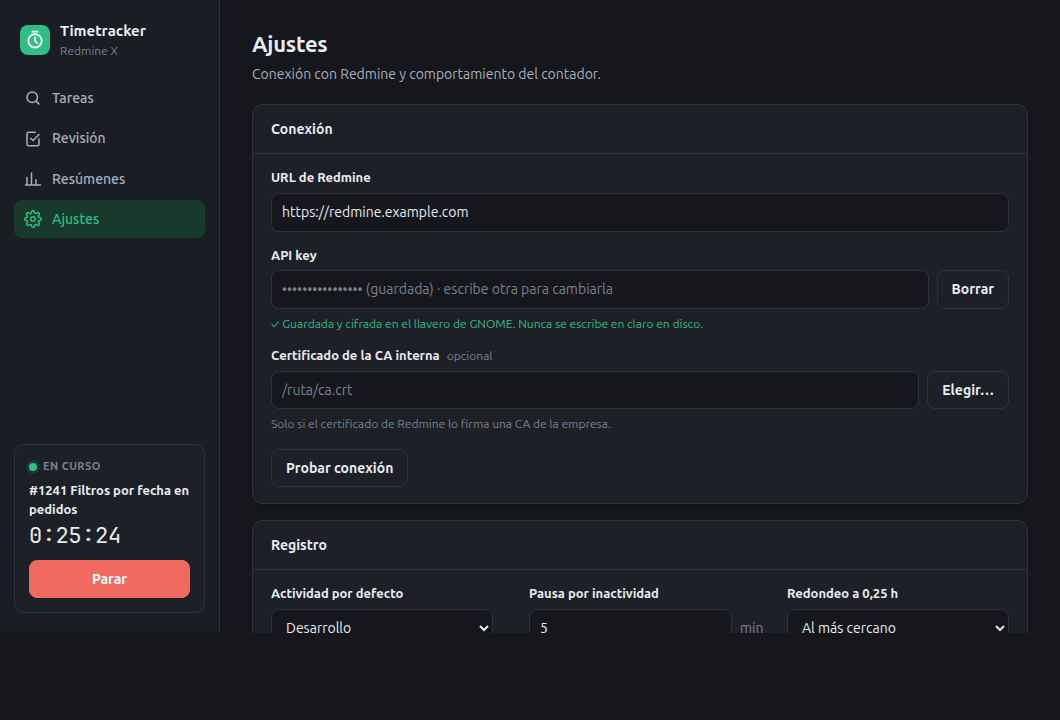
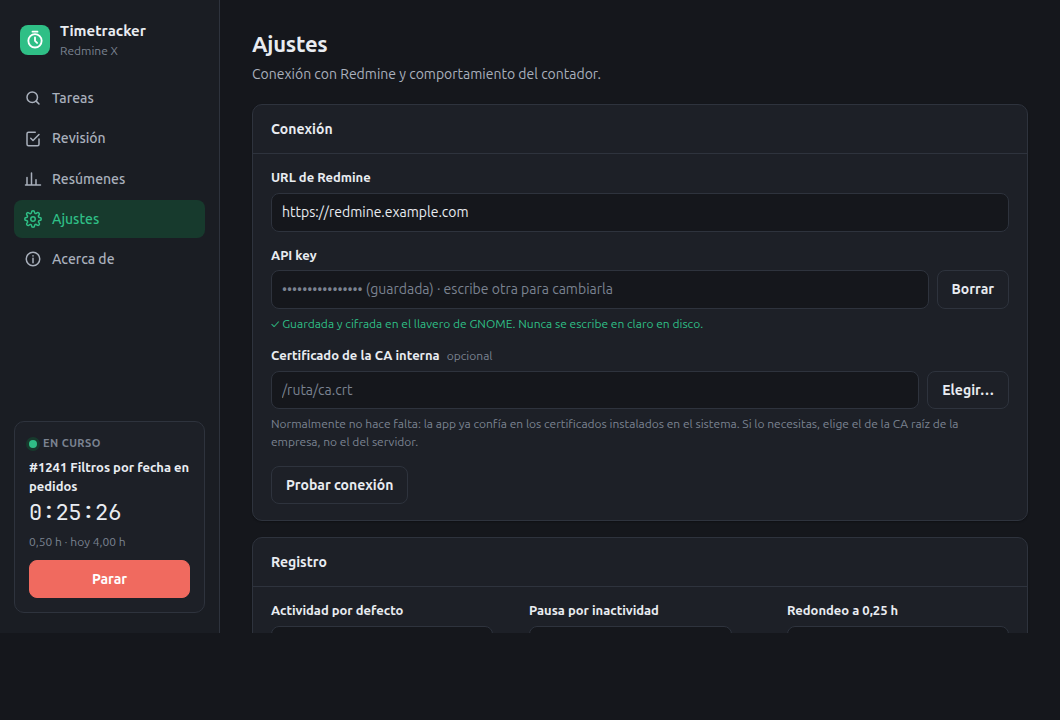
docs: :memo: README al día con el comentario al parar, el redondeo y los resúmenes
Nuevo lema, características y flujo actualizados, apartados sobre el
comentario al parar (Guardar, Luego, Cancelar) y el redondeo a 0,25 h, tabla
de problemas frecuentes y capturas regeneradas con la interfaz actual (widget
con horas redondeadas, aviso de comentario, tiempo manual y Acerca de).

diff --git a/README.md b/README.md
@@ -4,7 +4,7 @@
 
 # Timetracker Redmine
 
-**Cronometra tu trabajo con un clic. Revísalo al final del día. Imputa en Redmine sin rellenar ni una sola hora a mano.**
+**Cronometra tu trabajo con un clic. Comenta lo que has hecho al parar. Imputa en Redmine sin rellenar ni una sola hora a mano.**
 
 [![Electron](https://img.shields.io/badge/Electron-44-47848F?logo=electron&logoColor=white)](https://www.electronjs.org/)
 [![Plataformas](https://img.shields.io/badge/Linux%20%7C%20Windows%20%7C%20macOS-escritorio-2fbf86)](#-instalación)
@@ -20,7 +20,7 @@
 
 ## ¿Por qué?
 
-Imputar horas en Redmine al final de la semana es una tarea de arqueología: ¿qué hice el martes a las once? **Timetracker Redmine** te quita ese problema. Un widget flotante siempre a la vista cuenta el tiempo de la tarea en la que estás, detecta cuándo te levantas de la silla y, al final del día, te presenta todo agrupado y redondeado para que lo revises y lo envíes a Redmine con un solo botón.
+Imputar horas en Redmine al final de la semana es una tarea de arqueología: ¿qué hice el martes a las once? **Timetracker Redmine** te quita ese problema. Un widget flotante siempre a la vista cuenta el tiempo de la tarea en la que estás, te pide un comentario cuando paras, detecta cuándo te levantas de la silla y, al final del día, te presenta todo agrupado y redondeado a 0,25 h para que lo revises y lo envíes a Redmine con un solo botón.
 
 Y lo hace sin riesgos: **la app no escribe nada en Redmine hasta que tú lo permites expresamente**.
 
@@ -28,7 +28,8 @@ Y lo hace sin riesgos: **la app no escribe nada en Redmine hasta que tú lo perm
 
 | | |
 |---|---|
-| ⏱ **Widget flotante** | Pequeño, siempre encima, arrastrable y recuerda su posición. Muestra la tarea, el contador y el total del día. |
+| ⏱ **Widget flotante** | Pequeño, siempre encima, arrastrable y recuerda su posición. Muestra la tarea, el cronómetro y las **horas redondeadas a 0,25 h** de la tarea en curso y del día: lo que ves es lo que se imputará. |
+| 💬 **Comentario al parar** | Al parar o cambiar de tarea, el widget te pregunta qué has hecho. *Guardar*, *Luego*… o *Cancelar*, y el contador sigue corriendo como si nada. |
 | 🔎 **Buscador inteligente** | Por número (`1234` o `#1234`) o por título. Con la caja vacía, tus tareas abiertas. |
 | ⭐ **Tus proyectos primero** | Por defecto busca en tus **proyectos favoritos** de Redmine. Un filtro te deja elegir cualquier proyecto activo en el que participes. |
 | 🌳 **Árbol de tareas** | Resultados agrupados por proyecto y con la jerarquía padre → subtareas, como en Redmine. |
@@ -36,34 +37,62 @@ Y lo hace sin riesgos: **la app no escribe nada en Redmine hasta que tú lo perm
 | 💤 **Detección de inactividad** | Si te ausentas o suspendes el equipo, para el reloj donde empezó la inactividad y te pregunta: *Sumar*, *Descartar* o *Parar*. |
 | ✍ **Tiempo manual** | ¿Se te olvidó encender el contador? Elige la tarea, la fecha, la hora de inicio y las horas, y añádelo a mano. |
 | 📝 **Revisión del día** | Agrupada por tarea y actividad, con redondeo a 0,25 h. Cada tramo lleva **su comentario obligatorio**, y con ellos se forma el comentario de la entrada de tiempo. |
-| 📊 **Resúmenes** | Diario y semanal (de lunes a domingo), con barras y mapa de calor. |
+| 📊 **Resúmenes** | Diario y semanal (de lunes a domingo), en horas redondeadas tal y como se imputan, con el proyecto de cada tarea y los comentarios del día. |
 | 🔐 **API key como una contraseña** | Cifrada con el almacén seguro del sistema y nunca en claro en disco. |
-| 🏢 **Redmine corporativo** | Admite la CA interna de tu empresa (PEM o DER) sin desactivar jamás la verificación TLS. |
+| 🏢 **Redmine corporativo** | Confía en los certificados instalados en el sistema y admite la CA interna de tu empresa (PEM o DER), sin desactivar jamás la verificación TLS. |
 | 🔔 **Aviso de versión nueva** | Te avisa cuando hay una versión más reciente en GitHub, con un botón para descargarla. Se puede desactivar. |
 | 🌗 **Tema claro y oscuro** | Sigue automáticamente el tema del sistema. |
 
 <div align="center">
+<img src="capturas/widget.png" alt="Widget flotante contando tiempo, con las horas redondeadas" width="380">
+<img src="capturas/widget-comment.png" alt="El widget pide el comentario al parar" width="380">
+<br><br>
 <img src="capturas/dark-review.png" alt="Revisión del día con comentario obligatorio por tramo" width="49%">
-<img src="capturas/dark-summary.png" alt="Resúmenes diario y semanal" width="49%">
-<br>
-<img src="capturas/widget.png" alt="Widget flotante contando tiempo" width="380">
-<img src="capturas/widget-idle.png" alt="Aviso de inactividad del widget" width="380">
+<img src="capturas/dark-summary.png" alt="Resúmenes con horas redondeadas, proyecto y comentarios" width="49%">
 </div>
+
+<details>
+<summary>Más capturas: aviso de inactividad y tema claro</summary>
+<br>
+<div align="center">
+<img src="capturas/widget-idle.png" alt="Aviso de inactividad del widget" width="380">
+<br><br>
+<img src="capturas/light-tasks.png" alt="Buscador de tareas con el tema claro" width="820">
+</div>
+</details>
 
 ## ⚙ Cómo funciona
 
 ```
- Buscar tarea ──▶ ▶ Empezar ──▶ Tramos de tiempo ──▶ Revisión del día ──▶ Imputar en Redmine
-                                  (en tu equipo)      (agrupa, redondea,    (solo si lo permites
-                                                       comentario por        y confirmas)
-                                                       tramo)
+ Buscar tarea ─▶ ▶ Empezar ─▶ ■ Parar + comentario ─▶ Revisión del día ─▶ Imputar en Redmine
+                               (tramos de tiempo,      (agrupa, redondea     (solo si lo permites
+                                en tu equipo)           a 0,25 h)             y confirmas)
 ```
 
-1. **Cuentas**: eliges una tarea y pulsas *▶ Empezar*. Cada vez que paras, cambias de tarea o te ausentas, se guarda un **tramo** de tiempo en tu equipo.
-2. **Revisas**: en *Revisión del día* los tramos se agrupan por tarea y actividad, con las horas redondeadas a 0,25 h (al más cercano o siempre hacia arriba). Puedes ajustar horas y actividad, desmarcar lo que no quieras enviar y escribir qué hiciste en cada tramo.
-3. **Imputas**: *Imputar en Redmine* crea una entrada de tiempo por tarea y actividad, con los comentarios de sus tramos. Las filas enviadas quedan marcadas con el número de la entrada y no se pueden reenviar por error.
+1. **Cuentas**: eliges una tarea y pulsas *▶ Empezar*. El widget muestra el cronómetro y, debajo, las horas redondeadas de esa tarea y del día.
+2. **Paras y comentas**: al parar o cambiar de tarea, el widget te pide el comentario de ese trabajo. Cada parada, cambio de tarea o ausencia guarda un **tramo** de tiempo en tu equipo.
+3. **Revisas**: en *Revisión del día* los tramos se agrupan por tarea y actividad, con las horas redondeadas a 0,25 h (al más cercano o siempre hacia arriba). Puedes ajustar horas y actividad, desmarcar lo que no quieras enviar y completar los comentarios que falten.
+4. **Imputas**: *Imputar en Redmine* crea una entrada de tiempo por tarea y actividad, con los comentarios de sus tramos. Las filas enviadas quedan marcadas con el número de la entrada y no se pueden reenviar por error.
 
 Todo el registro de tiempo vive en tu equipo. Redmine solo se consulta para buscar tareas y proyectos, y solo se escribe en él cuando tú lo decides.
+
+### El comentario al parar
+
+<div align="center">
+<img src="capturas/widget-comment.png" alt="Aviso de comentario del widget con Guardar, Luego y Cancelar" width="380">
+</div>
+
+| Opción | Qué hace |
+|---|---|
+| **Guardar** (o Enter) | Para el contador y guarda el comentario en los tramos de hoy de esa tarea que aún no lo tienen. |
+| **Luego** | Para el contador y deja el comentario para la *Revisión del día*, donde es obligatorio antes de imputar. |
+| **Cancelar** (o Esc) | No para: el contador sigue desde el instante en que pulsaste parar, sin perder tiempo. |
+
+El aviso también aparece al cambiar de tarea y al elegir *Parar* tras una inactividad (en esos casos sin *Cancelar*). No aparece en las pausas automáticas por inactividad ni al salir de la app.
+
+### Redondeo a 0,25 h
+
+La app cuenta el tiempo real, pero todo lo que se imputa va en fracciones de 0,25 h. El redondeo se hace **por tarea y actividad en cada día**, y es el mismo en el widget, en los resúmenes, en la revisión y en lo que llega a Redmine. En *Ajustes* eliges entre redondear al cuarto de hora más cercano o siempre hacia arriba. El tiempo real sigue visible en pequeño.
 
 ## 📦 Instalación
 
@@ -81,10 +110,10 @@ Todo el registro de tiempo vive en tu equipo. Redmine solo se consulta para busc
 ### 🐧 Linux
 
 ```bash
-sudo apt install ./redmine-timetracker_0.1.0_amd64.deb
+sudo apt install ./redmine-timetracker_<versión>_amd64.deb
 ```
 
-Después búscala en el menú de aplicaciones como **Timetracker Redmine**. Para actualizar, instala el `.deb` nuevo encima: tus datos se conservan.
+Después búscala en el menú de aplicaciones como **Timetracker Redmine**. Para actualizar, sal de la app (icono de la bandeja → *Salir*), instala el `.deb` nuevo encima y vuelve a abrirla: tus datos se conservan.
 
 > **Actualizaciones:** la app consulta GitHub al arrancar y cada 6 horas y, si hay una versión nueva, te avisa con un botón para descargarla (en el panel y en el menú de la bandeja). Solo lee el número de la última versión publicada; no envía ningún dato tuyo. Se desactiva en *Ajustes → Avisar de versiones nuevas*.
 
@@ -158,6 +187,7 @@ gh attestation verify redmine-timetracker_<versión>_amd64.deb -R mgomezbuceta/r
 |---|---|
 | Empezar a contar | Clic en el texto del widget → busca la tarea → **▶ Empezar**. |
 | Parar o reanudar | Botón ■ / ▶ del widget, el panel o el menú del icono de la bandeja. |
+| Saber cuánto llevo | Bajo el cronómetro del widget: horas redondeadas de la tarea en curso y total de hoy (pasa el ratón para ver el tiempo real). |
 | Comentar lo que has hecho | Al parar o cambiar de tarea, el widget te pide el comentario de ese trabajo (Enter para guardar, «Luego» para dejarlo para la revisión, «Cancelar» o Esc para no parar y seguir contando). |
 | Buscar en un proyecto concreto | Desplegable de proyecto bajo el buscador (favoritos primero, luego los proyectos en los que participas). |
 | Volver a una tarea reciente | Chip **Recientes** en el buscador. |
@@ -165,7 +195,8 @@ gh attestation verify redmine-timetracker_<versión>_amd64.deb -R mgomezbuceta/r
 | Ausentarme | No hagas nada: al volver, la app te pregunta qué hacer con ese tiempo. |
 | Cerrar el día | Menú → **Revisión del día**: comenta cada tramo, ajusta y pulsa **Imputar en Redmine**. |
 | Corregir un error | En *Tramos registrados* puedes borrar un tramo equivocado antes de imputar. |
-| Ver cómo va la semana | Pestaña **Resúmenes**. |
+| Ver cómo va el día o la semana | Pestaña **Resúmenes**: horas redondeadas por tarea, con su proyecto y los comentarios del día. |
+| Salir del todo | Icono de la bandeja (o ⋮ del widget) → **Salir**. Cerrar la ventana solo la oculta: la app sigue en la bandeja. |
 | Ver la versión o informar de un problema | Pestaña **Acerca de** (o menú del icono de la bandeja → *Acerca de*). |
 
 ### Dónde se guardan tus datos
@@ -180,6 +211,22 @@ gh attestation verify redmine-timetracker_<versión>_amd64.deb -R mgomezbuceta/r
 - `data.json`: tramos de tiempo, recientes y envíos realizados.
 
 Si la app se cierra de golpe con el reloj en marcha, al volver corta en el último latido (cada 30 s) y te pregunta qué hacer con el hueco.
+
+<div align="center">
+<img src="capturas/dark-manual.png" alt="Diálogo para imputar horas sin contador" width="49%">
+<img src="capturas/dark-about.png" alt="Pantalla Acerca de con el aviso de versión nueva" width="49%">
+</div>
+
+## 🩺 Problemas frecuentes
+
+| Síntoma | Causa y solución |
+|---|---|
+| *Tiempo de espera agotado… [ETIMEDOUT]* con la VPN conectada | Un cortafuegos por aplicación (OpenSnitch, Little Snitch, el del antivirus…) está bloqueando la app. Permítele conectar con tu Redmine y con `api.github.com` (aviso de versiones). |
+| *SELF_SIGNED_CERT_IN_CHAIN* o «CA que no es de confianza» | Tu Redmine usa una CA interna que el sistema no tiene instalada. Elige en *Ajustes* el certificado de la **CA raíz** (no el del servidor). |
+| He instalado una versión nueva y sigo viendo la anterior | La app seguía abierta en la bandeja. Sal con *Salir* y ábrela de nuevo. |
+| El botón *Imputar en Redmine* está desactivado | Falta activar *Permitir imputar horas* en *Ajustes*, o falta el comentario de algún tramo (se marca en rojo). |
+| No encuentro una tarea | Su proyecto está cerrado o no está entre tus favoritos: elige el proyecto en el desplegable del buscador o búscala por número. |
+| En Ubuntu no arranca desde el código fuente (`chrome-sandbox`) | Es la restricción de AppArmor: usa el `.deb` o aplica los dos comandos del apartado *Desde el código fuente*. |
 
 ## 🧑💻 Desarrollo
 
@@ -200,13 +247,14 @@ Los instaladores salen en `instaladores/`. Para generar los tres a la vez, lanza
 
 ```
 src/        proceso principal: temporizador, inactividad, cliente de Redmine, cifrado de la API key
-renderer/   interfaz: panel (tareas, revisión, resúmenes, ajustes) y widget flotante
+renderer/   interfaz: panel (tareas, revisión, resúmenes, ajustes, acerca de) y widget flotante
 assets/     iconos (generados con scripts/make-icons.js)
 test/       tests de la lógica, del cliente de Redmine contra un servidor simulado y del cifrado
 ```
 
 ### Notas técnicas
 
+- Toda la lógica de tiempo (tramos, redondeo, revisión, resúmenes y horas del contador) está en `src/core.js`, sin dependencias de Electron y con tests.
 - Usa la API REST estándar de Redmine (`/issues.json`, `/projects.json`, `/enumerations/time_entry_activities.json` y `POST /time_entries.json`), con la sintaxis de filtros `f[]/op/v`, necesaria para el filtro de favoritos (`bookmarks`).
 - En Linux fuerza XWayland (`--ozone-platform=x11`), porque en Wayland nativo una ventana no puede ponerse siempre encima.
 - En GNOME la inactividad se lee de Mutter por D-Bus (también en Wayland). En el resto de sistemas, del `powerMonitor` de Electron.
